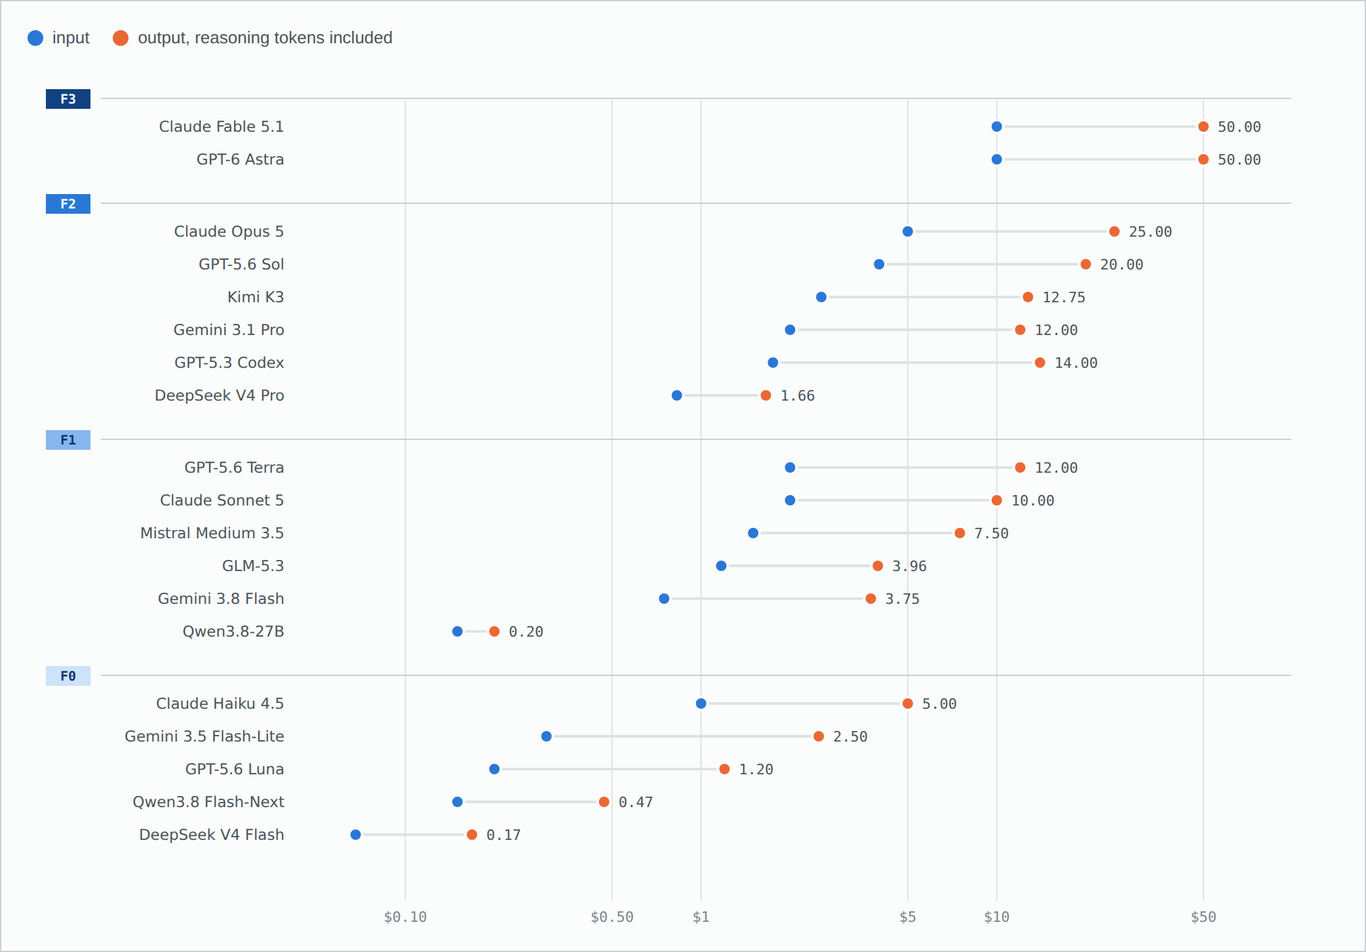
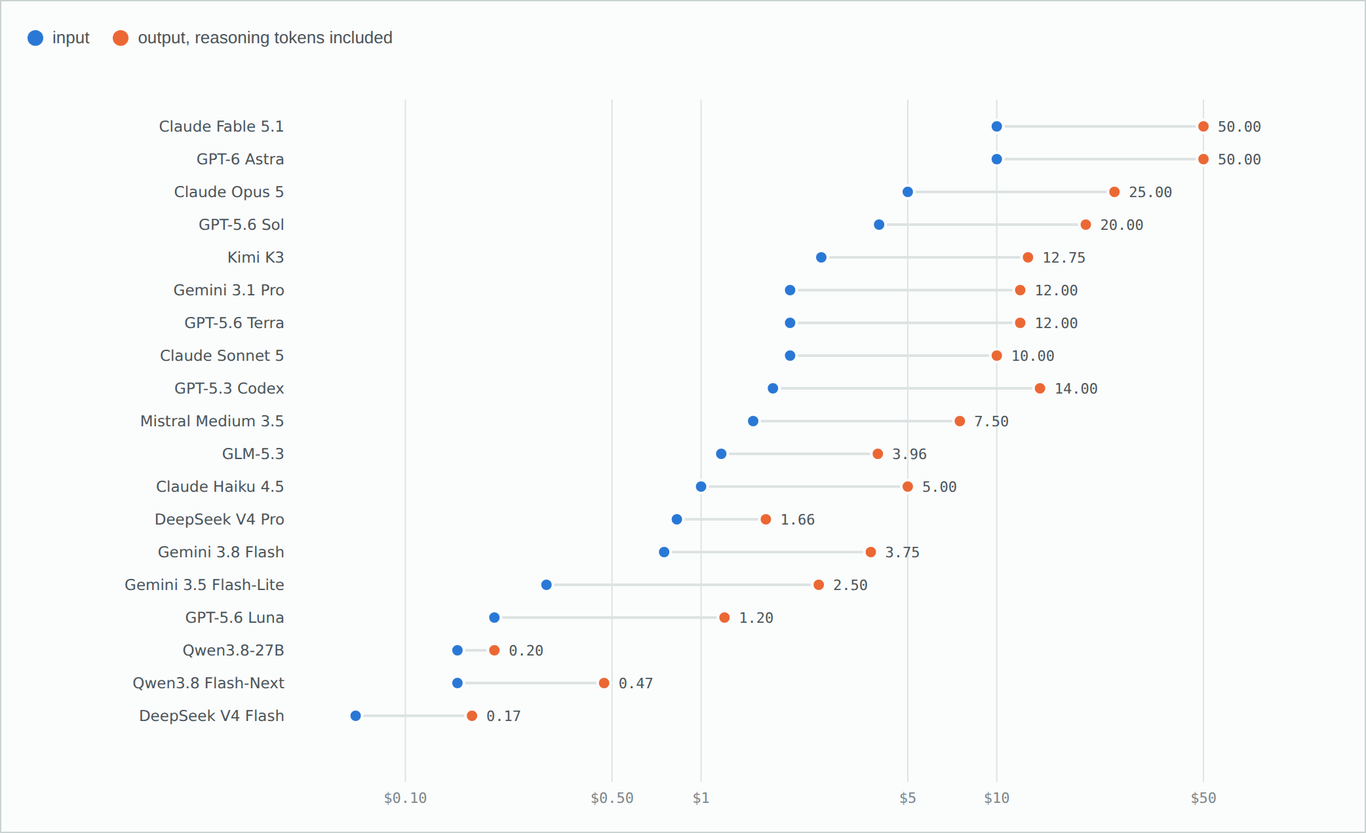
LLM Model Selection

diff --git a/_posts/2026-09-07-model-selection.md b/_posts/2026-09-07-model-selection.md
@@ -16,7 +16,7 @@ OpenAI retired SWE-bench Verified in February 2026. Their stated reasons are wor
 
 Then there is the scaffold problem, which is worse because it looks like it isn't there. On SWE-bench Pro, Claude Opus 4.6 scores 51.9% under Scale AI's standardised harness. Vendor-reported figures for comparable models run up to 80%. That is a 28-point gap produced by the harness, not the model. On Terminal-Bench 4.0 the models run inside different agents: GPT-6 Astra under Codex, the Claude models under Claude Code. Those rows are not a model-versus-model comparison at all. An agentic benchmark measures the pair.
 
-And a practical annoyance: the official leaderboards for SWE-bench, LiveBench, Terminal-Bench and ARC Prize render their rows in JavaScript. Most of the numbers circulating today come from aggregators quoting each other, and the aggregators disagree. I found the same model priced at $0.96 per million tokens by one source and $0.10 by another, a factor of ten that nobody reconciles.
+And a practical annoyance: the official leaderboards for SWE-bench, LiveBench, Terminal-Bench and ARC Prize render their rows in JavaScript. Most of the numbers circulating today come from aggregators quoting each other, and the aggregators disagree. I found the same model priced at $0.96 per million tokens by one source and $0.10 by another, nearly a factor of ten, and nobody reconciles it.
 
 None of this makes benchmarks useless, and I am not proposing to drop them. They still do the job nothing else does: they place a model in a capability tier and they rule models out. What they no longer do reliably is discriminate *within* a tier, and they never did tell you what a model would cost on your work. That is the gap the second axis fills.
 
@@ -34,7 +34,7 @@ Group by token profile instead and the clusters come out homogeneous, and each o
 |---|---|---|---|---|
 | Analysis and documentation | Requirements analysis | 15,000 (6k–40k) | 3,000 (1.5k–6k) | 50% |
 | | Documentation and reverse engineering | 135,000 (40k–400k) | 5,500 (2k–12k) | 17% |
-| | Regulatory and compliance analysis | 30,000 (10k–90k) | 1,500 (0.8k–4k) | 20% |
+| | Regulatory analysis | 30,000 (10k–90k) | 1,500 (0.8k–4k) | 20% |
 | Development | Greenfield development | 40,000 (15k–100k) | 12,000 (5k–30k) | 60% |
 | | Maintenance on existing code | 60,000 (25k–150k) | 4,500 (2k–12k) | 27% |
 | | Technology migration | 90,000 (40k–250k) | 9,000 (4k–25k) | 33% |
@@ -52,17 +52,15 @@ The central figures are working assumptions, not measurements, and the ranges ar
 
 Once the clusters are defined, the model question becomes arithmetic. Take each cluster's token profile, apply it to each model's list price, and you get what that model actually costs for that kind of work.
 
-![Model map: cost per 1,000 executions by activity cluster](/assets/img/model-selection/01-model-map.png)
+![Cost per 1,000 executions by activity cluster, one dot per model](/assets/img/model-selection/01-model-map.png)
 
 Two distances matter here, and neither is visible from a price list.
 
-**The distance within a row is the decision.** In ticket triage the range runs from $0.16 to $13.75 per thousand executions. That is a factor of 85 on the same task. No public evidence says the expensive model classifies your tickets better. That factor has to be justified by a measurement, not by caution, and in my experience it usually cannot be.
+**The distance within a row is the decision.** In ticket triage the range across the models on the market runs from $0.161 to $27.50 per thousand executions, a factor of 171 on the same task. Every row has a spread of that order, between 159x and 211x. No public evidence says the expensive model classifies your tickets better. A factor like that has to be justified by a measurement, not by caution, and in my experience it usually cannot be.
 
 **The distance between rows is the budget.** The same Gemini 3.8 Flash costs $2.06 per thousand triage calls and $121.88 per thousand legacy-documentation runs. Fifty-nine times the bill, same model, same price per token. Anyone sizing a project from the per-token list price alone is off by an order of magnitude before they start.
 
-**And the levers do not pay off equally.** The map also shows, for each cluster's recommended model, where the cost lands once you apply that cluster's priority levers. The saving is 67% on ticket triage and 15% on greenfield development, because in greenfield the money is in the output and caching does not touch it. That is the practical meaning of the token profile: in input-heavy clusters the fix is configuration, in output-heavy clusters it is changing how you work, generating in increments and calibrating effort.
-
-There is also a floor effect worth naming. In triage, extraction and operator assistance the difference between all the reasonable options is a few euros a month at normal volume. Optimising there is a waste of engineering time: choose for quality, latency and data residency instead. Real cost optimisation lives in the development family and in legacy documentation, where a bad choice gets multiplied by the volume of context.
+There is also a floor effect worth naming. In triage, extraction and operator assistance the difference between all the reasonable options is a few dollars a month at normal volume. Optimising there is a waste of engineering time: choose for quality and latency instead. Real cost optimisation lives in the development family and in legacy documentation, where a bad choice gets multiplied by the volume of context.
 
 ## The profile decides the lever
 
@@ -71,6 +69,8 @@ The same reframe answers the second question teams ask, which is what to do abou
 ![Token profile per cluster, input against output](/assets/img/model-selection/02-token-profile.png)
 
 The spread on the right-hand column is the actionable part: 14% for application operations, 60% for greenfield. That is the difference between a problem you solve with a cache and a problem you solve with an effort setting.
+
+It also puts a ceiling on what optimisation can return. Apply the levers that suit a cluster's profile and the saving comes out around 68% on ticket triage and 15% on greenfield development, and what is striking is that those two figures barely move with the model you picked. The ceiling is set by the profile, not by the price list: in greenfield the money is in the output, and caching does not touch it. In input-heavy clusters the fix is configuration; in output-heavy clusters it is changing how you work, generating in increments and calibrating effort.
 
 | Cluster | Prefix cache | Batch | Effort and output | Retrieval | Tool search | Distillation |
 |---|---|---|---|---|---|---|
@@ -90,15 +90,15 @@ The spread on the right-hand column is the actionable part: 14% for application 
 
 ## What each lever is actually worth
 
-These are the reductions the vendors themselves publish. I have not verified any of them independently, and they are not additive: each acts on a different base.
+These are the reductions the vendors themselves publish, including a few levers narrower than the six in the table above. I have not verified any of them independently, and they are not additive: each acts on a different base.
 
 ![Declared savings per lever](/assets/img/model-selection/03-savings-levers.png)
 
 Three of them deserve a note.
 
-**Caching is the biggest lever and the most misunderstood.** A cache read costs a tenth of the input price at all three vendors, but the write costs 1.25x, or 2x for Anthropic's one-hour cache. Anthropic states break-even after a single read on the five-minute cache and two reads on the one-hour cache. It needs a stable prefix: the minimum cacheable block runs from 512 to 4,096 tokens on Anthropic depending on the model, 1,024 on OpenAI from GPT-5.6 onward, 4,096 on the Gemini 3.x line. Changing your tool definitions, your images or your thinking parameters invalidates it. Anthropic reports observed hit rates between 30% and 98%, and the distance between those two numbers is the entire business case.
+**Caching is the biggest lever and the most misunderstood.** A cache read costs a tenth of the input price at all three vendors, with one exception visible in the chart: Anthropic prices cache reads on Fable and Mythos 5.1 at 0.025x, a fortieth. The write, on the other hand, costs 1.25x, or 2x for Anthropic's one-hour cache. Anthropic states break-even after a single read on the five-minute cache and two reads on the one-hour cache. It needs a stable prefix: the minimum cacheable block runs from 512 to 4,096 tokens on Anthropic depending on the model, 1,024 on OpenAI from GPT-5.6 onward, 4,096 on the Gemini 3.x line. Changing your tool definitions, your images or your thinking parameters invalidates it. Anthropic reports observed hit rates between 30% and 98%, and the distance between those two numbers is the entire business case.
 
-**Batch is half price on everything that is not interactive**, at all three vendors, with a declared 24-hour window. Anthropic says the batch discount stacks with caching; Google bills cache hits at the caching rate rather than the batch rate. In the map above, four of the thirteen clusters are natural batch candidates: test generation, ETL, triage and extraction. Most teams simply never switch it on.
+**Batch is half price on everything that is not interactive**, at all three vendors, with a declared 24-hour window. Anthropic says the batch discount stacks with caching; Google bills cache hits at the caching rate rather than the batch rate. In the table above, four of the thirteen clusters are natural batch candidates: test generation, ETL, triage and extraction. Most teams simply never switch it on.
 
 **Distillation is the only order-of-magnitude jump.** OpenAI's published example on a classifier: $11.92 per thousand articles with the large model few-shot, $0.21 with a small model fine-tuned on a thousand labelled examples, at the same stated 91.5% accuracy. Under 2% of the cost. It only works on narrow, stable tasks, which in this taxonomy means triage and document extraction.
 
@@ -106,50 +106,40 @@ Two levers that look like savings and are not always: Anthropic's server-side co
 
 ## The price list, and one caveat that undoes it
 
-![Published list prices by tier](/assets/img/model-selection/04-price-list.png)
+![Published list prices per million tokens, input against output](/assets/img/model-selection/04-price-list.png)
 
-The output-to-input ratio sits between 5x and 6x on the proprietary models almost without exception, and lower on the open-weight ones, from 1.3x on Qwen3.8-27B to 3.4x on GLM-5.3. Which means the real cost difference between two models in the same tier comes from how many reasoning tokens they generate, not from the list price. Anthropic states that Opus 4.5 at medium effort matched Sonnet 4.5's best SWE-bench Verified score while using 76% fewer output tokens. Before changing model, change effort.
+The output-to-input ratio sits between 5x and 6x on the proprietary models almost without exception, and lower on the open-weight ones, from 1.3x on Qwen3.8-27B to 3.4x on GLM-5.3. Which means the real cost difference between two models of comparable capability comes from how many reasoning tokens they generate, not from the list price. Anthropic states that Opus 4.5 at medium effort matched Sonnet 4.5's best SWE-bench Verified score while using 76% fewer output tokens. Before changing model, change effort.
 
 That is not just a plausible mechanism, it has been measured. Chen, Zhang, He, Stoica, Zaharia and Zou tested eight frontier reasoning models across twelve task types and asked how often the list price correctly predicts which model is cheaper. In **32% of pairwise comparisons the model with the lower listed price produced the higher total bill**, with the reversal reaching 28x. One of their cases: a model listed 80% cheaper than a competitor ends up costing 38% more, because of the thinking tokens it burns. Their conclusion is blunt: listed API pricing is an unreliable proxy for actual cost.
 
 The same paper measures something more uncomfortable. Repeating the same query on the same model, the number of thinking tokens generated varies by **up to 9.7x**. That is not variance between models, it is a model varying against itself. Cost is not deterministic even at fixed model and fixed prompt, which means every single-number estimate, the ones in this piece included, describes the mean of something that swings. Use them to compare cost structures, not to forecast an invoice.
 
-The caveat: Anthropic states that models from 4.7 onward use a tokenizer that produces roughly 30% more tokens for the same text, with the Sonnet 5 announcement giving a range of 1.0 to 1.35x depending on content. Every comparison above is per token. Per page, the Anthropic models cost more than the chart shows. If you are choosing on price, measure tokens on your own corpus first.
+The caveat: Anthropic states that models from 4.7 onward use a tokenizer that produces roughly 30% more tokens for the same text, with the Sonnet 5 announcement giving a range of 1.0 to 1.35x depending on content. In the chart above that covers Sonnet 5, Opus 5 and Fable 5.1, and not Haiku 4.5. Every comparison above is per token. Per page, the Anthropic models cost more than the chart shows. If you are choosing on price, measure tokens on your own corpus first.
 
-And prices move. Two of the models in the map are on time-limited rates: Gemini 3.8 Flash is promotional through 31 December 2026 and doubles on 1 January 2027, and GPT-5.6 Sol is promotional at least through 21 November 2026. Five of the thirteen clusters start on Gemini 3.8 Flash, so their cost doubles on New Year's Day with nothing else changing. If your business case depends on a promotional rate, that is worth knowing before you build on it.
+And prices move. Two of the models in the chart are on time-limited rates: Gemini 3.8 Flash is promotional through 31 December 2026 and doubles on 1 January 2027, and GPT-5.6 Sol is promotional at least through 21 November 2026. Gemini 3.8 Flash is currently one of the cheapest credible options in the input-heavy clusters, which means any budget resting on it doubles on New Year's Day with nothing else changing. If your business case depends on a promotional rate, that is worth knowing before you build on it.
 
 One more thing that only bites the input-heavy clusters: long context is not priced the same way everywhere. Anthropic applies no surcharge, so a 900k-token request costs the same per token as a 9k one. OpenAI doubles input and cache rates and multiplies output by 1.5 above 272k input tokens. Google applies a tier above 200k on some models. For reverse engineering and application operations, that detail matters more than the base price.
 
-## The option with no list price
+## Trying cheap first, and what to measure
 
-There is a fourth kind of option that the map cannot plot, and it is worth naming because the method above quietly assumes it away: a self-hosted open-weight platform. A stack running on your own infrastructure, whatever open-weight model is under it this quarter, has no price per token at all. Its cost is amortised capacity, which means it does not become comparable to anything in the chart until someone divides the infrastructure bill by the volume that actually passes through it. Put it next to the list prices before doing that arithmetic and you are comparing two different quantities.
+Two habits follow from the arithmetic, and neither is specific to a model.
 
-Once you have that internal cost per thousand executions, the comparison is straightforward and the break-even is a real number: the price of a comparable open-weight model at an inference provider, today around $0.15 per million input tokens and $0.47 output. Below that, self-hosting wins, and it wins hardest on the high-volume short-output clusters, where the per-execution price is small and the execution count is what moves the total. Above it, the argument has to be something other than price, and the honest one is predictability: infrastructure cost is fixed rather than proportional to use, which is a different thing to defend in a budget than a cheaper unit rate.
+The first is to try the cheap option first with an automatic check behind it, rather than choosing the expensive one up front. The check has to be genuinely automatic and genuinely cheap: tests that pass, a schema that validates, a citation that exists in the source document, a confidence above a threshold. If the verifier costs the same order of magnitude as the generator, the arrangement loses its point, and if the verifier is unreliable it moves the problem rather than solving it. When the check fails, going one step up in capability is usually enough; jumping straight to the most expensive model gives up the saving for a case that a middling model would have closed. Model cascading is an old idea and the interesting part is not the technique, it is that the rate at which you fall through tells you whether your first choice was right. If almost everything falls through, the first choice was too weak and two attempts cost more than one good one. If almost nothing does, there is a cheaper option you have not tried.
 
-What self-hosting is usually sold as, and mostly is not, is a confidentiality answer. In an organisation of any size the products you are allowed to call have already been through an approval process, and the enterprise tiers of the commercial products already cover the requirement that company data is not used for training. If that is your situation, the data does not leave in any of the permitted options, and the choice between them is an economic one, not a data-protection one. That is a better position to be in, because economic questions have arithmetic and governance questions have meetings. Reaching the same model through an unapproved endpoint, on the other hand, is not the same product, whatever the weights are.
-
-## The operating rule
-
-The map says where to start. One rule says when to move.
-
-The first branch is not a tier at all. Once you know the cluster, the question is whether the task can run on the self-hosted platform. If it can, that is where it runs and the list prices never enter the decision. If it cannot, you fall through to the cluster's starting model and the cascade below applies.
-
-![The cascade rule as a decision sequence](/assets/img/model-selection/05-cascade.png)
-
-Start at the cluster's recommended model, with a structured output and a strict schema wherever the task allows one. Verify with something automatic and cheap: tests that pass, a schema that validates, a citation that exists in the source document, a confidence above threshold. The verifier has to cost at least an order of magnitude less than the generator, or the whole thing is pointless. On failure, escalate one tier, not straight to the frontier model. Log every escalation.
-
-Then read the escalation rate. Consistently above 30% means the starting point is too low and two attempts cost more than one correct one. Consistently below 5% means you can probably go cheaper. That single number, per cluster, is worth more than any leaderboard.
-
-And measure cost per resolved case, not cost per call. In development, migration and reverse engineering a more expensive model that finishes on the first attempt costs less than a cheap one that needs three. Cost per closed ticket, per document produced, per accepted merge: those are the metrics that survive a model release.
+The second is to measure cost per resolved case rather than cost per call. In development, migration and reverse engineering a more expensive model that finishes on the first attempt costs less than a cheap one that needs three, and cost per call hides exactly that. Cost per closed ticket, per document produced, per accepted merge: those are the numbers that survive a model release, and they are the only ones that let you compare an expensive model against a cheap one honestly.
 
 ## What this does not tell you
 
-Two things the map does not do. It does not forecast a bill: it is arithmetic on list prices and assumed token counts, so it inherits both of the problems measured above, and the ordering survives them while the absolute figures do not. And it does not settle capability. If a task genuinely needs frontier reasoning, no amount of token arithmetic makes a cheap model adequate, and the cost column is then irrelevant: you pay what the work requires. The map tells you what each option costs on this kind of work; whether an option is good enough remains a question for benchmarks, for the vendors' own evaluations and, above all, for yours. Reading the two axes together is the whole point, and reading either one alone is how both failure modes start.
+Three things.
 
-The map is arithmetic on published prices, so the cost positions are exact. Everything around them is judgement. The cluster token profiles are my assumptions. The assignment of a model to "recommended" or "oversized" rests on declared capabilities, not on a comparative measurement, because as of today no comparable public measurement exists for most of these pairs.
+It does not forecast a bill. The cost positions are arithmetic on published prices, exact in the way arithmetic is exact, but they run on assumed token counts and they inherit both problems measured above, so the ordering survives while the absolute figures do not. Everything around them is judgement: the thirteen clusters are a cut of the work that I find useful and that you may well draw differently, and the profiles behind them are my assumptions.
 
-Which brings me to the part no article can do for you. No public benchmark measures your tickets, your regulatory texts, your repositories. A set of 100 to 200 real cases per high-volume cluster, each with an expected answer and a correctness criterion, turns every row of this map from a proposal into a measurement, and makes cost per resolved case comparable across models. It is a week of work and it outlives every model release in the next two years.
+It does not settle capability either. If a task genuinely needs frontier reasoning, no amount of token arithmetic makes a cheap model adequate, and the cost then becomes what the work requires rather than something to optimise. Whether an option is good enough stays a question for benchmarks, for the vendors' evaluations and, above all, for yours. Reading the two axes together is the whole point, and reading either one alone is how both failure modes start.
+
+And it does not tell you which model to pick. That is deliberate. The chart shows what each option costs on each kind of work; the choice belongs to whoever knows the quality bar, the constraints and the volumes, and that is not me.
+
+Which brings me to the part no article can do for you. No public benchmark measures your tickets, your regulatory texts, your repositories. A set of 100 to 200 real cases per high-volume cluster, each with an expected answer and a correctness criterion, turns every row of the token-profile table from an assumption into a measurement, and makes cost per resolved case comparable across models. It is a week of work and it outlives every model release in the next two years.
 
 ---
 
-*Sources: the price-reversal and thinking-token variance findings come from [The Price Reversal Phenomenon: When Cheaper Reasoning Models Cost More](https://arxiv.org/abs/2603.23971), Chen, Zhang, He, Stoica, Zaharia and Zou, March 2026, revised May 2026. Prices and model line-ups as published on 6 September 2026, in US dollars, taxes excluded. Every price here was re-checked at source in a second, independent pass, which caught four errors in the first draft: DeepSeek V4 Flash is $0.0679/$0.168 and not $0.05/$0.10; Qwen3.8-27B's base output price is $0.20 and not $2.00, with a provider spread up to fifteen times; Gemini 2.5 Flash-Lite is no longer listed and was dropped; and the triage ratio is 85, not the 115 I first published by rounding the denominator before dividing. Two prices carry an expiry: Gemini 3.8 Flash is promotional through 31 December 2026 and doubles on 1 January 2027, and GPT-5.6 Sol is promotional at least through 21 November 2026. Sources: vendor documentation from [Anthropic](https://platform.claude.com/docs/en/about-claude/pricing), [OpenAI](https://developers.openai.com/api/docs/pricing) and [Google](https://ai.google.dev/gemini-api/docs/pricing); [OpenAI on retiring SWE-bench Verified](https://openai.com/index/why-we-no-longer-evaluate-swe-bench-verified/); [Artificial Analysis](https://artificialanalysis.ai/leaderboards/models) for independent measurement; [Scale AI](https://labs.scale.com/leaderboard/swe_bench_pro_public) for SWE-bench Pro under a standardised harness; OpenRouter for open-weight inference pricing. This space moves in weeks: re-check the source before spending money on the basis of any of it.*
+*Sources: the price-reversal and thinking-token variance findings come from [The Price Reversal Phenomenon: When Cheaper Reasoning Models Cost More](https://arxiv.org/abs/2603.23971), Chen, Zhang, He, Stoica, Zaharia and Zou, March 2026, revised May 2026. Prices and model line-ups as published on 6 September 2026, in US dollars, taxes excluded. Every price here was re-checked at source in a second, independent pass, which caught four errors in the first draft: DeepSeek V4 Flash is $0.0679/$0.168 and not $0.05/$0.10; Qwen3.8-27B's base output price is $0.20 and not $2.00, with a provider spread up to fifteen times; Gemini 2.5 Flash-Lite is no longer listed and was dropped; and the triage spread was misstated in an earlier draft, because I rounded the cheapest option's price before dividing. Two prices carry an expiry: Gemini 3.8 Flash is promotional through 31 December 2026 and doubles on 1 January 2027, and GPT-5.6 Sol is promotional at least through 21 November 2026. Sources: vendor documentation from [Anthropic](https://platform.claude.com/docs/en/about-claude/pricing), [OpenAI](https://developers.openai.com/api/docs/pricing) and [Google](https://ai.google.dev/gemini-api/docs/pricing); [OpenAI on retiring SWE-bench Verified](https://openai.com/index/why-we-no-longer-evaluate-swe-bench-verified/); [Artificial Analysis](https://artificialanalysis.ai/leaderboards/models) for independent measurement; [Scale AI](https://labs.scale.com/leaderboard/swe_bench_pro_public) for SWE-bench Pro under a standardised harness; OpenRouter for open-weight inference pricing. This space moves in weeks: re-check the source before spending money on the basis of any of it.*
